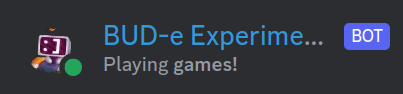
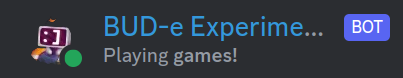
docs: fixed up indentation, made image smaller

diff --git a/docpages/example_programs/misc/setting_status.md b/docpages/example_programs/misc/setting_status.md
@@ -8,9 +8,9 @@ A bot status is pretty cool, and it'd be cooler if you knew how to do it! This t
 int main()
 {
     /* Create the bot */
-	dpp::cluster bot("token");
+    dpp::cluster bot("token");
 
-	bot.on_log(dpp::utility::cout_logger());
+    bot.on_log(dpp::utility::cout_logger());
 
     bot.on_ready([&bot](const dpp::ready_t& event) {
         /* We don't need the run_once here as we're not registering commands! */
@@ -19,9 +19,9 @@ int main()
         bot.set_presence(dpp::presence(dpp::presence_status::ps_online, dpp::activity_type::at_game, "games!"));
     });
 
-	bot.start(dpp::st_wait);
+    bot.start(dpp::st_wait);
 
-	return 0;
+    return 0;
 }
 ~~~~~~~~~~
 

diff --git a/docpages/example_programs/misc.md b/docpages/example_programs/misc.md
@@ -8,4 +8,4 @@ This section lists examples that do not fit neatly into any of the categories ab
 * \subpage collecting-reactions "Collecting Reactions"
 * \subpage cpp-eval-command-discord "Making an eval command in C++"
 * \subpage checking-member-permissions "Checking permissions"
-* \subpage setting_status "Setting the bot's status"
+* \subpage setting_status
